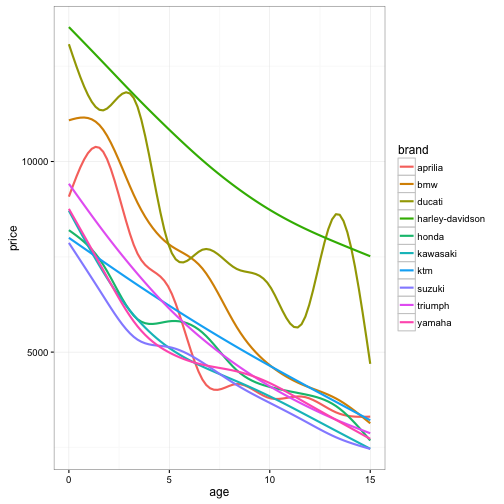
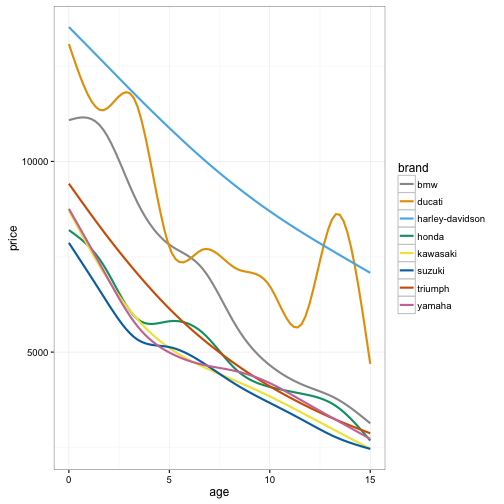
Site updated at 2016-02-04 11:25:38 UTC

diff --git a/blog/2016/02/03/motorbike-prices-part-1/index.html b/blog/2016/02/03/motorbike-prices-part-1/index.html
@@ -210,7 +210,7 @@ Let&rsquo;s have a look at our data :</p>
 <li><em>mileage</em> : Mileage, duh</li>
 <li><em>title</em>, <em>description</em>, <em>search</em> : Plain text about the bike, used to add some other factors or infer the brand, model, etc.</li>
 <li><em>abs</em>, <em>panniers</em> : I look for these words in the titles, description. Not perfect, especially because I look them as strings, not as words. So a description about an <em>abs</em>olute steal would match an <em>abs</em>. Yeah, that sucks, but I haven&rsquo;t had the time to research what NLP tools R offers for stemming.</li>
-<li><em>ad_age</em> : The age of the ad, calculated from a time stamp in the url. This one actually gets lots of =N/A=, because some urls are for ads and don&rsquo;t show the timestamp.</li>
+<li><em>ad_age</em> : The age of the ad, calculated from a time stamp in the url. This one actually gets lots of <code>N/A</code>, because some urls are for ads and don&rsquo;t show the timestamp.</li>
 </ul>
 
 
@@ -272,10 +272,13 @@ Let&rsquo;s have a look at our data :</p>
 <p>As a first approximation, we can take the first word of the ad title to get the brand. Brands that use several words will be trimmed, but that should be good enough for now.</p>
 
 <div class="highlight"><pre><code class="language-r" data-lang="r">data<span class="o">$</span>brand <span class="o">=</span> <span class="kp">as.factor</span><span class="p">(</span>word<span class="p">(</span>data<span class="o">$</span>title<span class="p">))</span>
-brands <span class="o">=</span> data <span class="o">%&gt;%</span> group_by<span class="p">(</span>brand<span class="p">)</span> <span class="o">%&gt;%</span> tally<span class="p">()</span>
-big_brands <span class="o">=</span> <span class="kp">droplevels</span><span class="p">(</span>brands<span class="p">[</span>n <span class="o">&gt;</span> <span class="m">200</span><span class="p">]</span><span class="o">$</span>brand<span class="p">)</span>
+brands <span class="o">=</span> data <span class="o">%&gt;%</span> group_by<span class="p">(</span>brand<span class="p">)</span> <span class="o">%&gt;%</span> tally<span class="p">(</span>sort <span class="o">=</span> <span class="kc">TRUE</span><span class="p">)</span>
+big_brands <span class="o">=</span> brands<span class="p">[</span><span class="m">1</span><span class="o">:</span><span class="m">8</span><span class="p">]</span><span class="o">$</span>brand
 data<span class="o">$</span>big_brand <span class="o">=</span> data<span class="o">$</span>brand <span class="o">%in%</span> big_brands
-ggplot<span class="p">(</span>data<span class="p">[</span>data<span class="o">$</span>big_brand<span class="p">])</span> <span class="o">+</span> geom_smooth<span class="p">(</span>aes<span class="p">(</span>y<span class="o">=</span>price<span class="p">,</span> x<span class="o">=</span>age<span class="p">,</span> color<span class="o">=</span>brand<span class="p">),</span> se <span class="o">=</span> <span class="kc">FALSE</span><span class="p">)</span></code></pre></div>
+
+<span class="c1"># Let&#39;s try a colorblind friendly version</span>
+cbPalette <span class="o">&lt;-</span> <span class="kt">c</span><span class="p">(</span><span class="s">&quot;#999999&quot;</span><span class="p">,</span> <span class="s">&quot;#E69F00&quot;</span><span class="p">,</span> <span class="s">&quot;#56B4E9&quot;</span><span class="p">,</span> <span class="s">&quot;#009E73&quot;</span><span class="p">,</span> <span class="s">&quot;#F0E442&quot;</span><span class="p">,</span> <span class="s">&quot;#0072B2&quot;</span><span class="p">,</span> <span class="s">&quot;#D55E00&quot;</span><span class="p">,</span> <span class="s">&quot;#CC79A7&quot;</span><span class="p">)</span>
+ggplot<span class="p">(</span>data<span class="p">[</span>data<span class="o">$</span>big_brand<span class="p">])</span> <span class="o">+</span> geom_smooth<span class="p">(</span>aes<span class="p">(</span>y<span class="o">=</span>price<span class="p">,</span> x<span class="o">=</span>age<span class="p">,</span> color<span class="o">=</span>brand<span class="p">),</span> se <span class="o">=</span> <span class="kc">FALSE</span><span class="p">)</span> <span class="o">+</span> scale_colour_manual<span class="p">(</span>values<span class="o">=</span>cbPalette<span class="p">)</span></code></pre></div>
 
 
 <p><img src="/figs/2015-02-03-motorbike-prices-part-1/unnamed-chunk-6-1.png" alt="center" /></p>
@@ -458,6 +461,8 @@ Let&rsquo;s run the query again, this time only looking a bikes which are more t
 <p><strong>If you want to re-publish all or part of this data/graphs/article, get in touch. Just ask.</strong></p>
 
 <p><em>I&rsquo;d like to get some data on insurance as well, but it&rsquo;s a lot harder to gather. If you know a way, let me know&hellip;</em></p>
+
+<p><em>Edit 1 : 2015-02-04 11:24 GMT - Changed the brand graph to only use 8 brands but with colorblinds-friendly palette.</em></p>
 </div>
 
 
